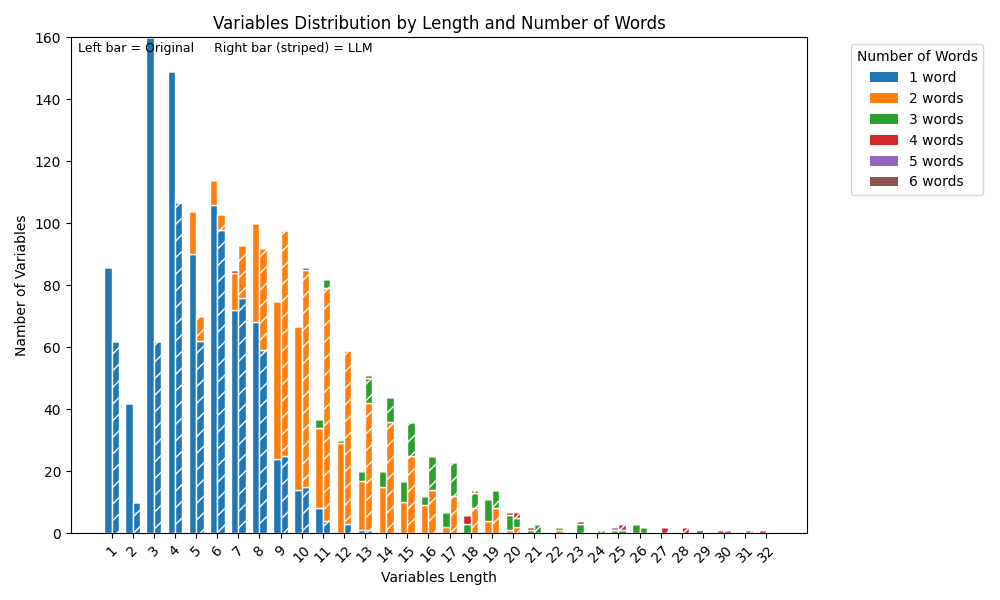
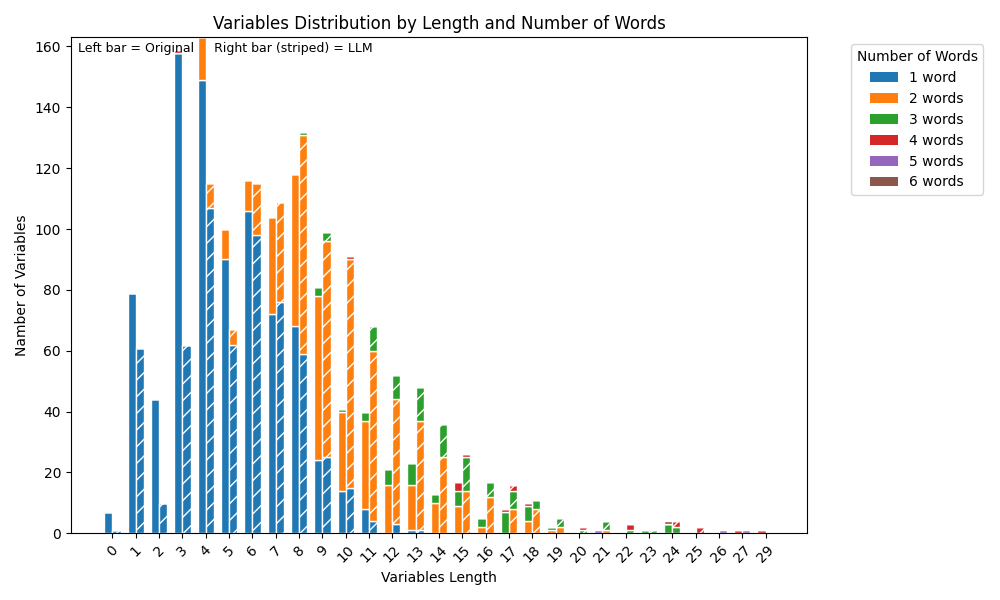
Added new plots

diff --git a/evaluation/naming_stats_eval.py b/evaluation/naming_stats_eval.py
@@ -42,6 +42,74 @@ def detect_style(var: str) -> str:
     # 6) anything else
     return 'other'
 
+def visualize_word_length_distribution(output_dir, model, df):
+    from collections import Counter
+
+    def extract_word_lengths(var):
+        # Strip leading underscores
+        var = var[1:] if var.startswith('_') else var
+
+        if '_' in var:
+            words = var.split('_')
+        else:
+            words = re.findall(r'[A-Z]?[a-z]+|[A-Z]+(?![a-z])', var)
+            if not words:  # fallback
+                words = [var]
+        return [len(w) for w in words]
+
+    length_counter = {
+        "Original": Counter(),
+        "LLM": Counter()
+    }
+
+    for _, row in df.iterrows():
+        var = row["variable"]
+        tag = row["type"]
+        word_lengths = extract_word_lengths(var)
+        length_counter[tag].update(word_lengths)
+
+    all_lengths = sorted(set(length_counter["Original"].keys()) | set(length_counter["LLM"].keys()))
+    orig_counts = [length_counter["Original"].get(l, 0) for l in all_lengths]
+    llm_counts  = [length_counter["LLM"].get(l, 0) for l in all_lengths]
+
+    bar_width = 0.4
+    x = list(range(len(all_lengths)))
+    fig, ax = plt.subplots(figsize=(10, 5))
+
+    ax.bar([i - bar_width/2 for i in x], orig_counts, width=bar_width, label="Original", color="tab:blue")
+    ax.bar([i + bar_width/2 for i in x], llm_counts, width=bar_width, label="LLM", color="tab:orange", hatch="//")
+
+    ax.set_xticks(x)
+    ax.set_xticklabels(all_lengths)
+    ax.set_xlabel("Word Length")
+    ax.set_ylabel("Number of Words")
+    ax.set_title("Distribution of Word Lengths in Variable Names")
+    ax.legend()
+    ax.grid(axis='y', linestyle='--', alpha=0.5)
+
+    fig.tight_layout()
+    fig.savefig(os.path.join(output_dir, f"{model}word_length_distribution.png"))
+    plt.close(fig)
+
+
+def visualize_number_of_words_cdf(output_dir, model, df):
+    fig, ax = plt.subplots(figsize=(8, 5))
+
+    for name, group in df.groupby("type"):
+        word_counts = group["words"].sort_values().values
+        cdf = [i / len(word_counts) for i in range(1, len(word_counts) + 1)]
+        ax.step(word_counts, cdf, where='post', label=name)
+
+    ax.set_xlabel("Number of Words in Variable Name")
+    ax.set_ylabel("Cumulative Fraction (CDF)")
+    ax.set_title("CDF of Number of Words in Variable Names")
+    ax.legend(title="Variable Source")
+    ax.grid(True, linestyle='--', alpha=0.5)
+
+    fig.tight_layout()
+    fig.savefig(os.path.join(output_dir, f"{model}words_cdf.png"))
+    plt.close(fig)
+
 def visualize_variables_naming_distribution(output_dir, model, df):
     grouped = df.groupby(["type", "length", "words"]).size().reset_index(name="count")
 
@@ -264,7 +332,7 @@ def analyze(input_json: str, output_dir: str):
                         'repo': repo,
                         'type': tag,
                         'variable': v,
-                        'length': len(v),
+                        'length': len(v.replace("_", "")), # ignore underscores in length
                         'words': count_words(v),
                         'style': detect_style(v)
                     })
@@ -277,6 +345,8 @@ def analyze(input_json: str, output_dir: str):
         return
 
     visualize_variables_naming_distribution(output_dir, model, df)
+    visualize_number_of_words_cdf(output_dir, model, df)
+    visualize_word_length_distribution(output_dir, model, df)
     visualize_variables_styles_distribution(output_dir, model, df)
     visualize_hamming_distribution(output_dir, model, distances)
     
